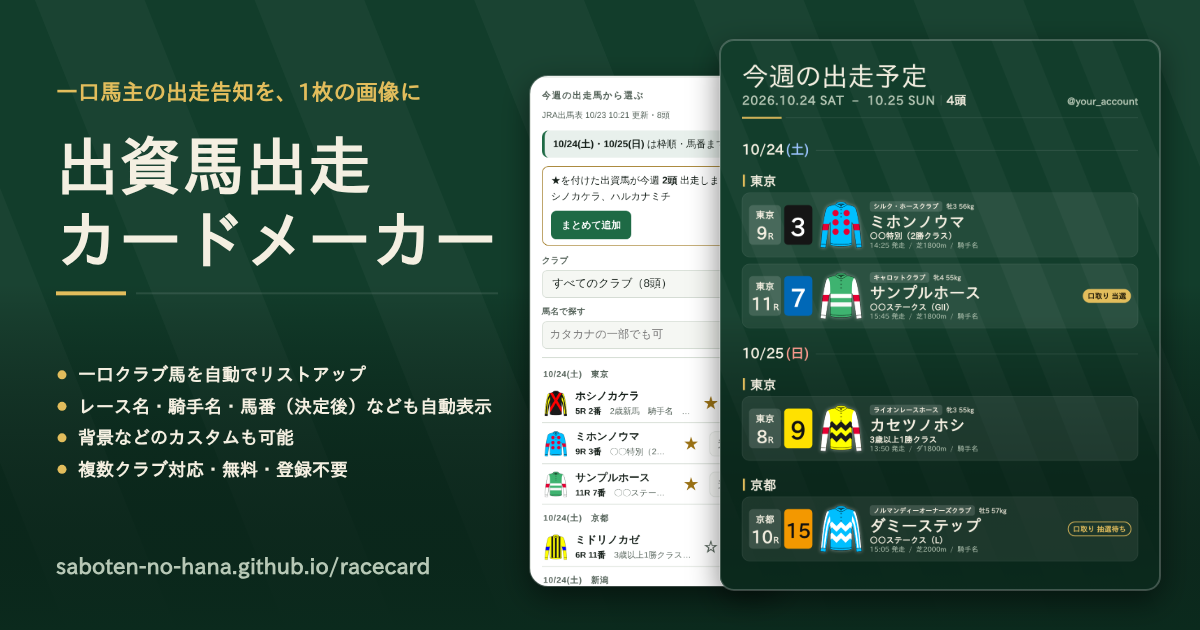
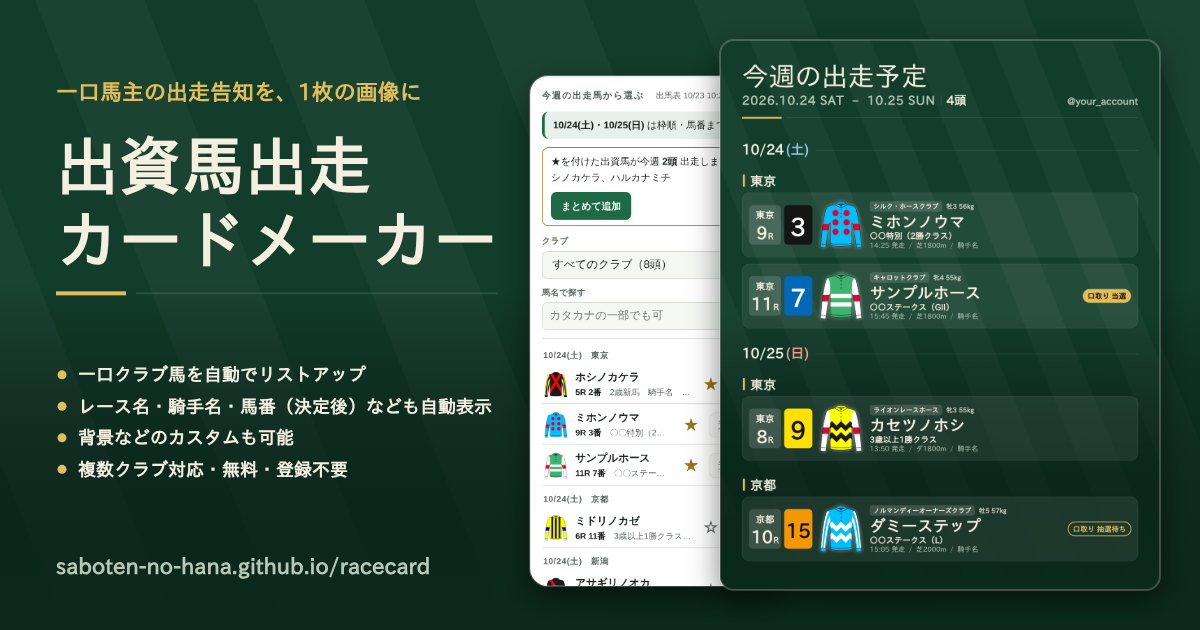
画面: 出馬表の取得元を説明する文言を外す
- 今週の出走馬リストの下の「JRAの出馬表から、一口クラブ名義の馬を自動で集めています。」を削除（自動取得を強調する書き方が、アクセスへの指摘を招きかねないため）。発表時刻と★の説明は残し、「JRAの発表から」は「発表から」に
- リスト上の更新時刻の表示も「JRA出馬表 M/D HH:MM 更新」→「出馬表 M/D HH:MM 更新」
- og.png の作成ページ部分にもこの表示が写るので作り直し、og:image を ?v=5 に

Claude-Session: https://claude.ai/code/session_01Cf93NYy7TZNuiwoAWi7RG2

Changed region(s): [[0.4317, 0.1508, 0.6167, 0.9349]]

diff --git a/index.html b/index.html
@@ -16,7 +16,7 @@
 <meta property="og:title" content="出資馬出走カードメーカー">
 <meta property="og:description" content="今週末に出走する一口出資馬を、勝負服・レース番号・枠色つき馬番入りの1枚の画像に。複数クラブ対応・無料・登録不要。">
 <meta property="og:url" content="https://saboten-no-hana.github.io/racecard/">
-<meta property="og:image" content="https://saboten-no-hana.github.io/racecard/og.png?v=4">
+<meta property="og:image" content="https://saboten-no-hana.github.io/racecard/og.png?v=5">
 <meta property="og:image:width" content="1200">
 <meta property="og:image:height" content="630">
 <meta property="og:image:alt" content="ツールの紹介と、作成ページ・出走予定の出資馬を勝負服つきで並べた縦長の画像の例">
@@ -238,7 +238,7 @@ footer.site-foot a{color:var(--accent);font-weight:700;overflow-wrap:anywhere}
         <p class="hint">今週の出馬表にいない馬は「出走待ち」として名前を覚えておき、出走する週に自動で★に変わります。募集名（「〇〇25」など）は対象外です。違う言葉が拾われたら、チェックを外してから★を付けてください。</p>
       </details>
       <div class="plist" id="p-list"></div>
-      <p class="hint">JRAの出馬表から、一口クラブ名義の馬を自動で集めています。木曜16時すぎに出走確定（馬番なし）、レース前日10時すぎに枠・馬番が入ります（JRAの発表から20〜30分ほどで反映されます）。★を付けた馬は、次に出走する週に「まとめて追加」で一度に入れられます。</p>
+      <p class="hint">木曜16時すぎに出走確定（馬番なし）、レース前日10時すぎに枠・馬番が入ります（発表から20〜30分ほどで反映されます）。★を付けた馬は、次に出走する週に「まとめて追加」で一度に入れられます。</p>
     </section>
     <div class="editor-head">
       <h2>出走馬<b id="count">0</b></h2>
@@ -1181,7 +1181,7 @@ async function loadRaces(){
   try{
     const r=await fetch('data/races.json',{cache:'no-cache'}); if(!r.ok) throw new Error(r.status);
     RACES=await r.json(); HELD={}; RACES.days.forEach(d=>HELD[d.date]=d.venues);
-    const t=new Date(RACES.updated); U.textContent=`JRA出馬表 ${t.getMonth()+1}/${t.getDate()} ${pad2(t.getHours())}:${pad2(t.getMinutes())} 更新・${RACES.horses.length}頭`;
+    const t=new Date(RACES.updated); U.textContent=`出馬表 ${t.getMonth()+1}/${t.getDate()} ${pad2(t.getHours())}:${pad2(t.getMinutes())} 更新・${RACES.horses.length}頭`;
     const counts={}; RACES.horses.forEach(x=>counts[x.clubId]=(counts[x.clubId]||0)+1);
     $('#p-club').innerHTML=`<option value="">すべてのクラブ（${RACES.horses.length}頭）</option>`+CLUBS.filter(c=>counts[c.id]).map(c=>`<option value="${c.id}">${esc(c.name)}（${counts[c.id]}頭）</option>`).join('');
     try{ const v=localStorage.getItem('racecard.pclub'); if(v&&counts[v]) $('#p-club').value=v; }catch(e){}
